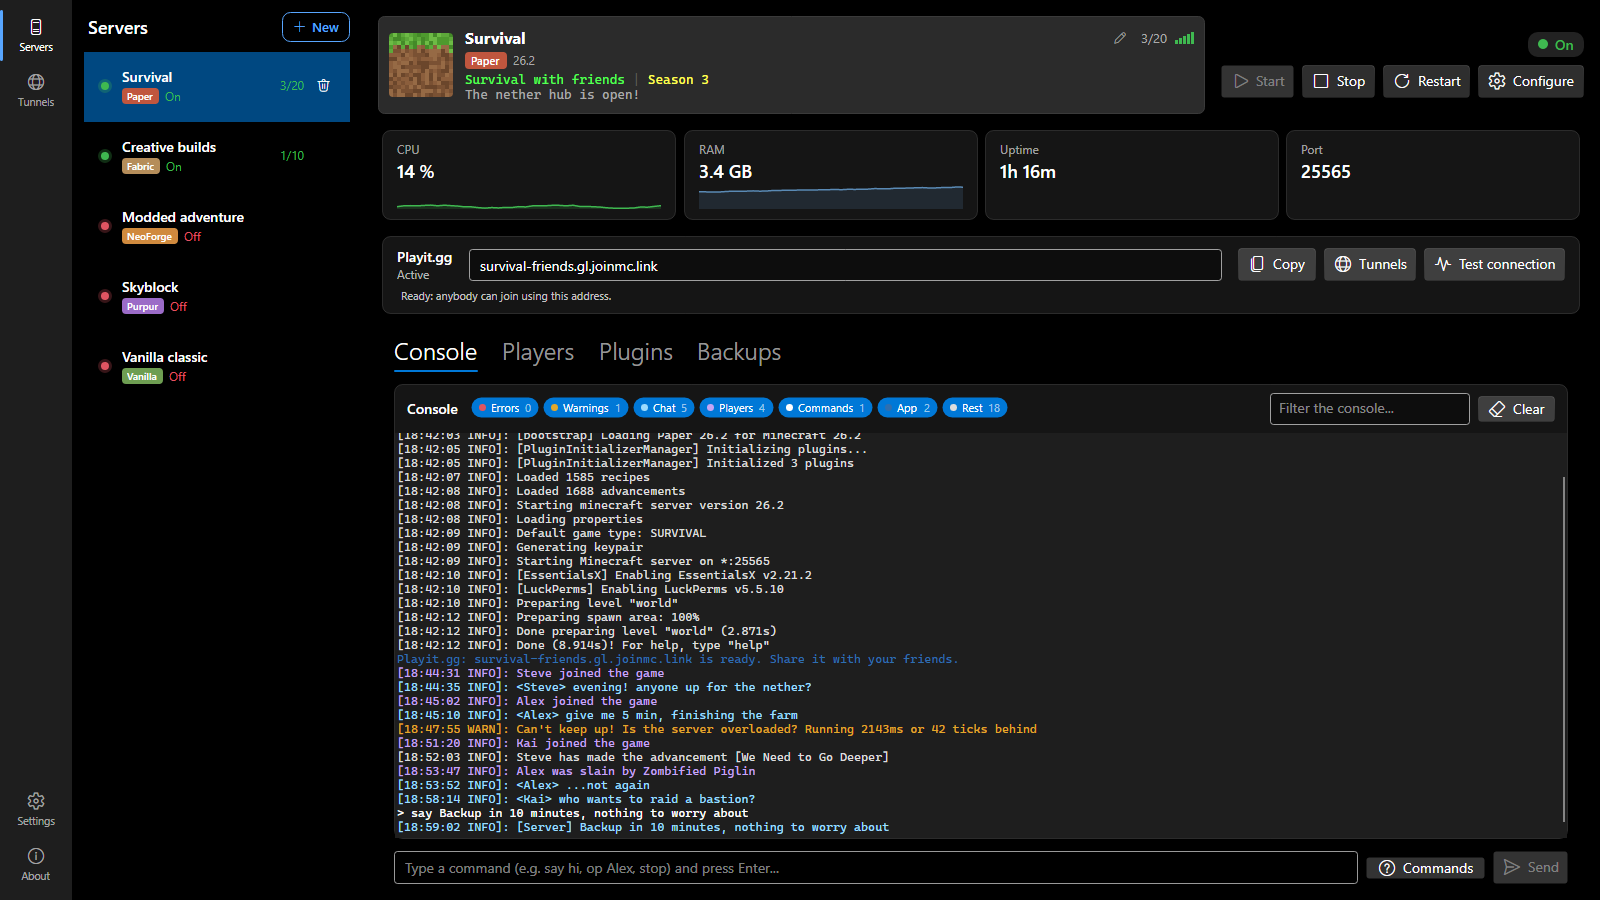
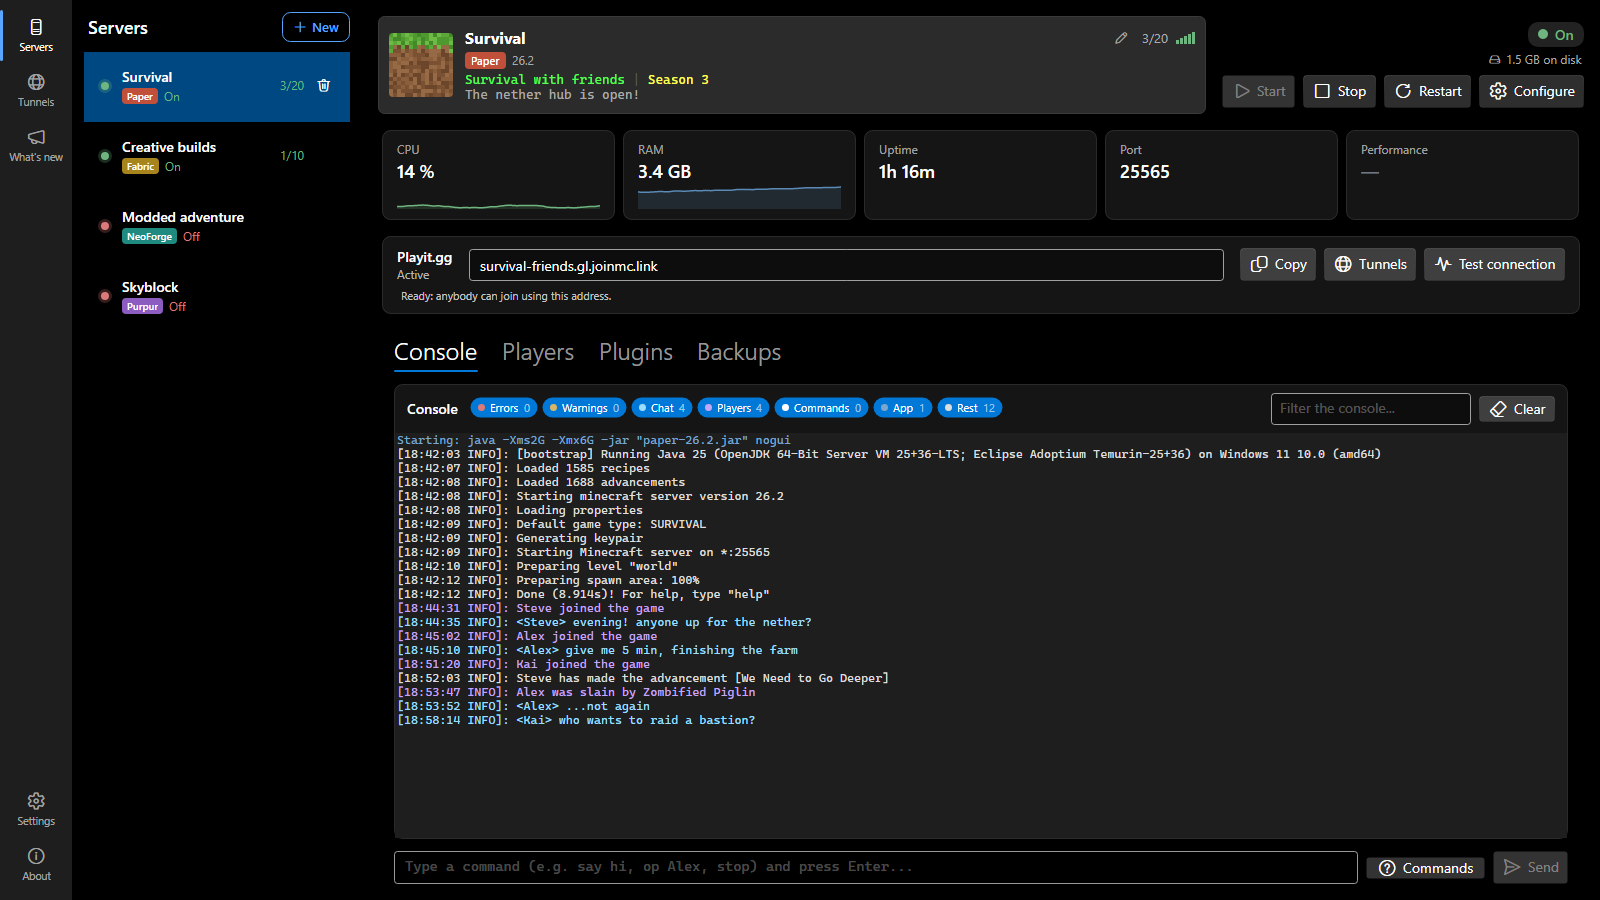
docs: GIF y capturas del README al día, con consola y red de Playit nuevas
Regrabados con la app actual los seis GIF (tour, create, internet, backups,
update, mods; es y en) y las capturas main, new-server, players y settings.
Nuevos console.gif (autocompletado) y network.gif (red de Playit), con su
desplegable en ambos README. Corregidos los textos alternativos de la gira,
backups y update, y se menciona Cancelar durante la descarga.

diff --git a/README.es.md b/README.es.md
@@ -13,7 +13,7 @@ Crea, configura y comparte **servidores de Minecraft** en **Windows, Linux y mac
 archivos `.bat`, ventanas de consola ni configuraciones a mano**.
 
 <p align="center">
-  <img src="docs/media/es/tour.gif" width="900" alt="Un paseo por la app: la consola de un servidor encendido, sus jugadores, la tienda de plugins, Túneles y Ajustes">
+  <img src="docs/media/es/tour.gif" width="900" alt="Un paseo por la app: la consola de un servidor encendido, sus jugadores, la tienda de plugins, Túneles, Novedades y Ajustes">
 </p>
 
 <p align="center">
@@ -84,6 +84,19 @@ en el servidor.
 </details>
 
 <details>
+<summary><img src="docs/media/icons/terminal.svg" width="20" height="20" alt="" align="absmiddle"> <b>Escribir comandos en la consola</b></summary>
+
+<br>
+
+Empieza a escribir en la caja de comandos y **se completa mientras escribes**, como el chat del juego: una lista
+con lo que encaja y qué es cada opción. **Tab** coge la de arriba, las flechas eligen otra y debajo se queda el
+uso del comando. Los comandos de mods y plugins también salen, porque vienen del `help` del propio servidor.
+
+<img src="docs/media/es/console.gif" width="900" alt="Escribir time set en la caja de comandos: la lista de lo que encaja, Tab para coger cada palabra y el uso debajo">
+
+</details>
+
+<details>
 <summary><img src="docs/media/icons/globe.svg" width="20" height="20" alt="" align="absmiddle"> <b>Jugar con amigos por Internet</b></summary>
 
 <br>
@@ -96,6 +109,19 @@ tus amigos. **Túneles** enseña todos los túneles de tu cuenta y arregla los q
 </details>
 
 <details>
+<summary><img src="docs/media/icons/globe.svg" width="20" height="20" alt="" align="absmiddle"> <b>Mirar la red de Playit</b></summary>
+
+<br>
+
+Si tus amigos no consiguen conectar o van con lag, mira en **Túneles**: una línea dice si la red de Playit va bien y
+por dónde sales. **Ver red de Playit** mide todas sus regiones desde tu ordenador, con tu ping a cada una, y marca
+las que están reencaminadas o no responden. No hace falta cuenta.
+
+<img src="docs/media/es/network.gif" width="900" alt="De Túneles a la página de la red de Playit: cada región con el ping medido desde este ordenador">
+
+</details>
+
+<details>
 <summary><img src="docs/media/icons/hard-drive.svg" width="20" height="20" alt="" align="absmiddle"> <b>Hacer y restaurar copias</b></summary>
 
 <br>
@@ -104,7 +130,7 @@ Las copias automáticas se hacen solas. Para una a mano, **Copia de seguridad ah
 seguridad**; **Restaurar** devuelve el mundo a ese momento (con el servidor detenido, tras pedirte confirmación;
 antes se guarda el mundo actual, por si te arrepientes).
 
-<img src="docs/media/es/backups.gif" width="900" alt="Hacer una copia a mano y restaurarla: la confirmación y el resultado">
+<img src="docs/media/es/backups.gif" width="900" alt="Hacer una copia a mano: el contador sube y la copia nueva entra en la lista, cada una con su botón Restaurar">
 
 </details>
 
@@ -113,10 +139,10 @@ antes se guarda el mundo actual, por si te arrepientes).
 
 <br>
 
-Cuando hay una versión nueva sale un aviso arriba: **Actualizar** la descarga, la comprueba y la instala. Al
-volver a abrirse, la sección **Novedades** te cuenta qué ha cambiado. Funciona igual en Windows, Linux y macOS.
+Cuando hay una versión nueva sale un aviso arriba: **Actualizar** la descarga, la comprueba y la instala
+(mientras descarga, el botón es **Cancelar**). Al volver a abrirse, la sección **Novedades** te cuenta qué ha cambiado. Funciona igual en Windows, Linux y macOS.
 
-<img src="docs/media/es/update.gif" width="900" alt="El aviso de actualización y la descarga">
+<img src="docs/media/es/update.gif" width="900" alt="El aviso de actualización, la descarga con su botón Cancelar y, ya instalada, la sección Novedades">
 
 </details>
 

diff --git a/README.md b/README.md
@@ -13,7 +13,7 @@ Create, configure and share **Minecraft servers** on **Windows, Linux and macOS*
 files, black console windows or editing config files by hand**.
 
 <p align="center">
-  <img src="docs/media/en/tour.gif" width="900" alt="A tour of the app: a running server's console, its players, the plugin store, Tunnels and Settings">
+  <img src="docs/media/en/tour.gif" width="900" alt="A tour of the app: a running server's console, its players, the plugin store, Tunnels, What's new and Settings">
 </p>
 
 <p align="center">
@@ -83,6 +83,19 @@ is already on the server.
 </details>
 
 <details>
+<summary><img src="docs/media/icons/terminal.svg" width="20" height="20" alt="" align="absmiddle"> <b>Type commands in the console</b></summary>
+
+<br>
+
+Start typing in the command box and it **completes as you type**, like the game's chat: a list of what fits, with
+what each option is. **Tab** takes the one on top, the arrows pick another, and the command's usage stays
+underneath. Mod and plugin commands are there too, because they come from the server's own `help`.
+
+<img src="docs/media/en/console.gif" width="900" alt="Typing time set in the command box: the list of what fits, Tab to take each word and the usage underneath">
+
+</details>
+
+<details>
 <summary><img src="docs/media/icons/globe.svg" width="20" height="20" alt="" align="absmiddle"> <b>Play with friends over the Internet</b></summary>
 
 <br>
@@ -95,6 +108,19 @@ friends. **Tunnels** shows every tunnel on your account and fixes the ones that 
 </details>
 
 <details>
+<summary><img src="docs/media/icons/globe.svg" width="20" height="20" alt="" align="absmiddle"> <b>Check Playit's network</b></summary>
+
+<br>
+
+If friends can't connect or lag, look at **Tunnels**: a line says whether Playit's network is healthy and where you
+connect through. **View Playit network** measures all of its regions from your computer, with your ping to each
+one, and marks the ones that are rerouted or not answering. No account needed.
+
+<img src="docs/media/en/network.gif" width="900" alt="From Tunnels to the Playit network page: every region with the ping measured from this computer">
+
+</details>
+
+<details>
 <summary><img src="docs/media/icons/hard-drive.svg" width="20" height="20" alt="" align="absmiddle"> <b>Back up and restore</b></summary>
 
 <br>
@@ -103,7 +129,7 @@ Automatic backups happen by themselves. For one by hand, **Back up now** in the 
 takes the world back to that moment (with the server stopped, after asking you to confirm; the current world is
 saved first, in case you change your mind).
 
-<img src="docs/media/en/backups.gif" width="900" alt="Making a backup by hand, then restoring it: the confirmation and the result">
+<img src="docs/media/en/backups.gif" width="900" alt="Making a backup by hand: the count goes up and the new copy joins the list, each with its Restore button">
 
 </details>
 
@@ -112,10 +138,10 @@ saved first, in case you change your mind).
 
 <br>
 
-When there's a new version, a banner appears at the top: **Update** downloads it, checks it and installs it.
-When it opens again, the **What's new** section tells you what changed. It works the same on Windows, Linux and macOS.
+When there's a new version, a banner appears at the top: **Update** downloads it, checks it and installs it
+(**Cancel** is there while it downloads). When it opens again, the **What's new** section tells you what changed. It works the same on Windows, Linux and macOS.
 
-<img src="docs/media/en/update.gif" width="900" alt="The update banner and the download">
+<img src="docs/media/en/update.gif" width="900" alt="The update banner, the download with its Cancel button and, once installed, the What's new section">
 
 </details>
 
